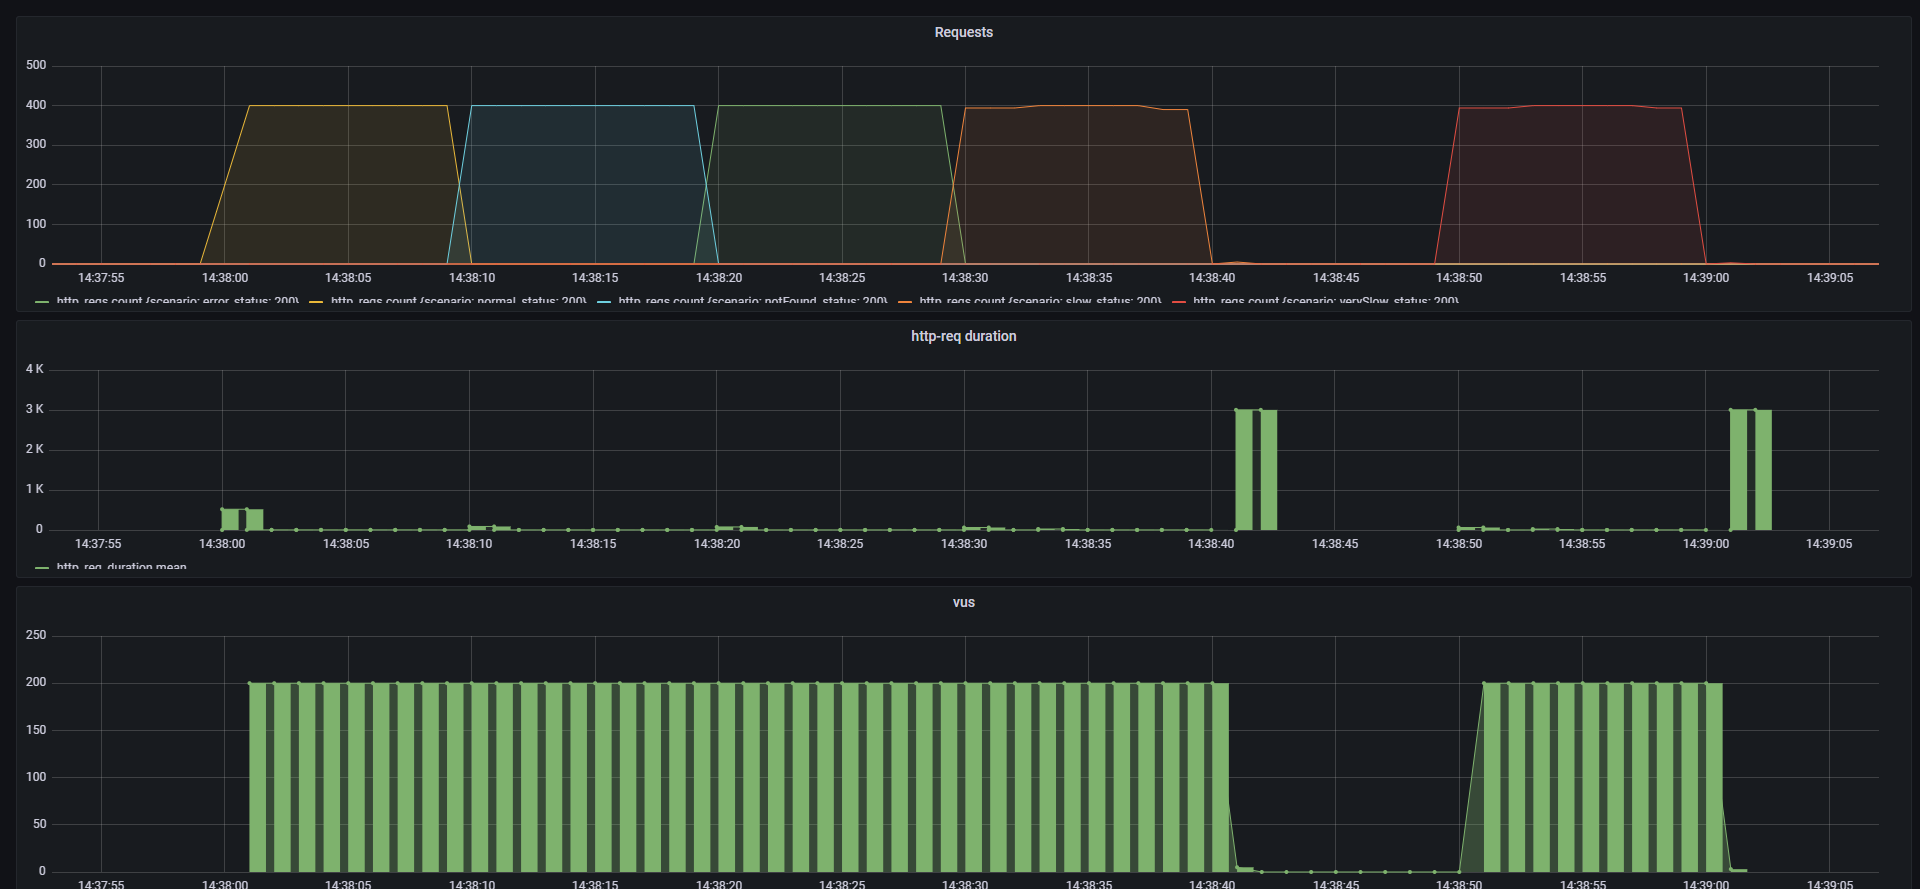
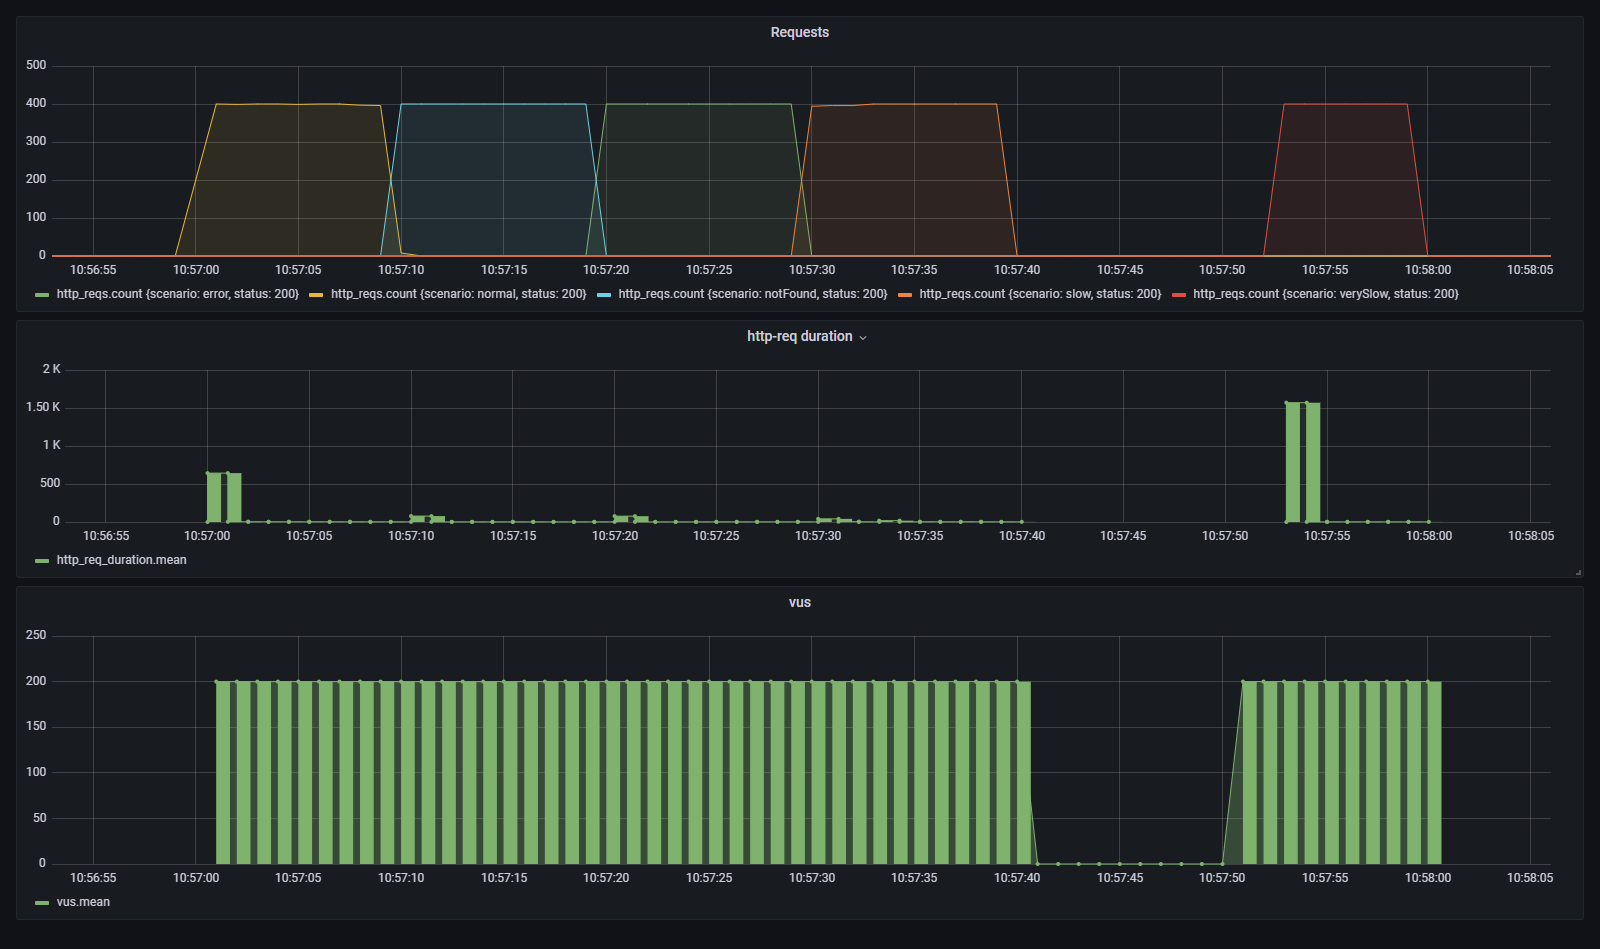
docs: k6 results with the memory of slow products, intermittent 503s under Docker

diff --git a/README.es.md b/README.es.md
@@ -113,18 +113,27 @@ el circuito): cada error hizo fallar al menos un test.
 
 | Ejecución | Peticiones | Errores | Media | p95 | Máx. |
 |---|---|---|---|---|---|
-| Con caché (por defecto), app en Docker | 19.740 | 0, todas `200` | 15 ms | 30 ms | 3,1 s |
+| Con caché (por defecto), app en Docker | 18.586 | 0, todas `200` | 47 ms | 40 ms | 3,2 s |
 | Sin caché, app en el host | 11.221 | 0, todas `200` | 397 ms | 1,56 s | 3,9 s |
+
+La ejecución sin caché es de antes del ADR 8; `SPRING_CACHE_TYPE=none` también desactiva la memoria de productos
+lentos, así que no la cambia.
 
 **Con caché** (la configuración normal):
 
 ![Dashboard de k6 con caché](docs/k6-dashboard.png)
 
 Los cinco escenarios se ejecutan uno tras otro a ~400 req/s. Los tiempos se quedan en pocos milisegundos porque, tras
-las primeras peticiones, los productos salen de la caché y el circuito abierto descarta los productos lentos 1000 y
-10000 sin esperar. Los picos de 3 s al final de "slow" y "verySlow" son una media sobre muy pocas peticiones: cuando
-paran los usuarios virtuales, las únicas que aún terminan son las que llegaron a los productos lentos (por ejemplo
-cuando el circuito vuelve a probar) y esperaron al timeout de 3 s. Las "interrupted iterations" de la salida de k6 las
+las primeras peticiones, los productos salen de la caché y los productos lentos 1000 y 10000 se omiten sin esperar
+(ADR 8). Los dos picos son el arranque en frío del primer escenario y el inicio de "verySlow": los 200 usuarios
+virtuales que piden el producto 3 a la vez esperan todos el primer timeout de 3 s del producto 10000 antes de que quede
+recordado como lento.
+
+Frente a la versión anterior (misma máquina, mismo día: 19.653 peticiones, 18,6 ms de media, 35,6 ms de p95), la media
+sube y el p95 apenas se mueve. Los números anteriores se apoyaban en que el circuito de detalle seguía abierto durante
+los escenarios lentos: cada prueba llegaba al producto 1000, daba timeout y lo volvía a abrir, así que se rechazaba
+toda llamada de detalle no cacheada, también la de productos sanos. Ahora un producto lento ya no mantiene abierto el
+circuito, a cambio de una espera de 3 s por cada producto lento nuevo. Las "interrupted iterations" de la salida de k6 las
 provoca `gracefulStop: 0s` en el script de la prueba, no son errores.
 
 **Sin caché**, para demostrar que el servicio aguanta por diseño y no solo gracias a la caché:
@@ -139,7 +148,9 @@ provoca `gracefulStop: 0s` en el script de la prueba, no son errores.
   consigue el servicio. El servicio añade poco encima.
 - Con la app dentro de Docker y sin caché, 14 de ~11.700 peticiones recibieron un `503`: abrir conexiones nuevas desde
   el contenedor de la app hasta el mock a través de `host.docker.internal` superó el timeout de conexión (1 s) con esa
-  carga. Con la app en el host, y en todas las ejecuciones con caché, no hubo ninguno. La causa registrada en el log
+  carga. Con la app en el host no hubo ninguno. Con caché también puede pasar, de forma intermitente: la ráfaga de 200
+  conexiones nuevas al empezar un escenario dio 23 y 42 `503` en dos ejecuciones del 2026-10-29 (las dos versiones) y
+  ninguno en la ejecución de arriba. La causa registrada en el log
   permitió encontrarlo rápido.
 
 ## Limitaciones conocidas

diff --git a/README.md b/README.md
@@ -113,18 +113,26 @@ test fail.
 
 | Run | Requests | Errors | Mean | p95 | Max |
 |---|---|---|---|---|---|
-| With cache (default), app in Docker | 19,740 | 0, all `200` | 15 ms | 30 ms | 3.1 s |
+| With cache (default), app in Docker | 18,586 | 0, all `200` | 47 ms | 40 ms | 3.2 s |
 | Without cache, app on the host | 11,221 | 0, all `200` | 397 ms | 1.56 s | 3.9 s |
+
+The run without cache is from before ADR 8; `SPRING_CACHE_TYPE=none` also turns off the memory of slow products,
+so it does not change it.
 
 **With cache** (the normal configuration):
 
 ![k6 dashboard with cache](docs/k6-dashboard.png)
 
 The five scenarios run one after another at ~400 req/s. Response times stay at a few milliseconds because, after the
-first requests, products come from the cache and the open circuit drops the slow products 1000 and 10000 without
-waiting. The 3 s spikes at the end of "slow" and "verySlow" are a mean over very few requests: once the virtual users
-stop, the only requests still finishing are the ones that reached the slow products (for example when the circuit
-probes again) and waited for the 3 s timeout. The "interrupted iterations" in the k6 output come from
+first requests, products come from the cache and the slow products 1000 and 10000 are skipped without waiting
+(ADR 8). The two spikes are the cold start of the first scenario and the start of "verySlow": the 200 virtual users
+that ask for product 3 at once all wait for the first 3 s timeout of product 10000 before it is remembered as slow.
+
+Compared with the previous version (same machine, same day: 19,653 requests, 18.6 ms mean, 35.6 ms p95), the mean goes
+up and the p95 barely moves. The previous numbers relied on the detail circuit staying open through the slow
+scenarios: every probe reached product 1000, timed out and opened it again, so every uncached detail call was
+rejected, healthy products included. Now one slow product no longer keeps the circuit open, at the cost of one 3 s wait
+per new slow product. The "interrupted iterations" in the k6 output come from
 `gracefulStop: 0s` in the test script, not from errors.
 
 **Without cache**, to show the service holds up by design and not only thanks to the cache:
@@ -139,7 +147,8 @@ probes again) and waited for the 3 s timeout. The "interrupted iterations" in th
   achieves. The service adds little on top.
 - With the app inside Docker and no cache, 14 of ~11,700 requests got a `503`: opening new connections from the app
   container to the mock through `host.docker.internal` timed out (1 s connect timeout) under that load. With the app
-  on the host, and in every run with the cache, there were none. The logged cause made this easy to find.
+  on the host there were none. The same can happen, intermittently, with the cache: the burst of 200 new connections at
+  the start of a scenario gave 23 and 42 `503`s in two runs on 2026-10-29 (both versions) and none in the run above. The logged cause made this easy to find.
 
 ## Known limitations
 

diff --git a/docs/adr/0008-remember-slow-products.es.md b/docs/adr/0008-remember-slow-products.es.md
@@ -37,4 +37,6 @@ Caffeine `slowProducts` durante **30 s** (`product-api.slow-product-ttl`). Mient
 
 - Desde la segunda petición, `/product/2` y `/product/3` responden en pocos milisegundos en vez de en unos 3 s.
 - Un producto lento que se recupera sigue omitido hasta 30 s.
+- Un producto lento ya no mantiene abierto el circuito de detalle. Con la ráfaga de k6 eso cuesta una espera de 3 s por
+  cada producto lento nuevo: la media pasa de 18,6 ms a 47 ms y el p95 de 36 ms a 40 ms (README, prueba de carga).
 - Con varias instancias, cada una aprende por su cuenta qué productos son lentos.

diff --git a/docs/adr/0008-remember-slow-products.md b/docs/adr/0008-remember-slow-products.md
@@ -36,4 +36,6 @@ cache for **30 s** (`product-api.slow-product-ttl`). While it is there, `getProd
 
 - From the second request on, `/product/2` and `/product/3` answer in a few milliseconds instead of about 3 s.
 - A slow product that recovers is still left out for up to 30 s.
+- One slow product no longer keeps the detail circuit open. Under the k6 burst this costs one 3 s wait per new slow
+  product: the mean goes from 18.6 ms to 47 ms and the p95 from 36 ms to 40 ms (README, load test).
 - With several instances, each one learns on its own which products are slow.
